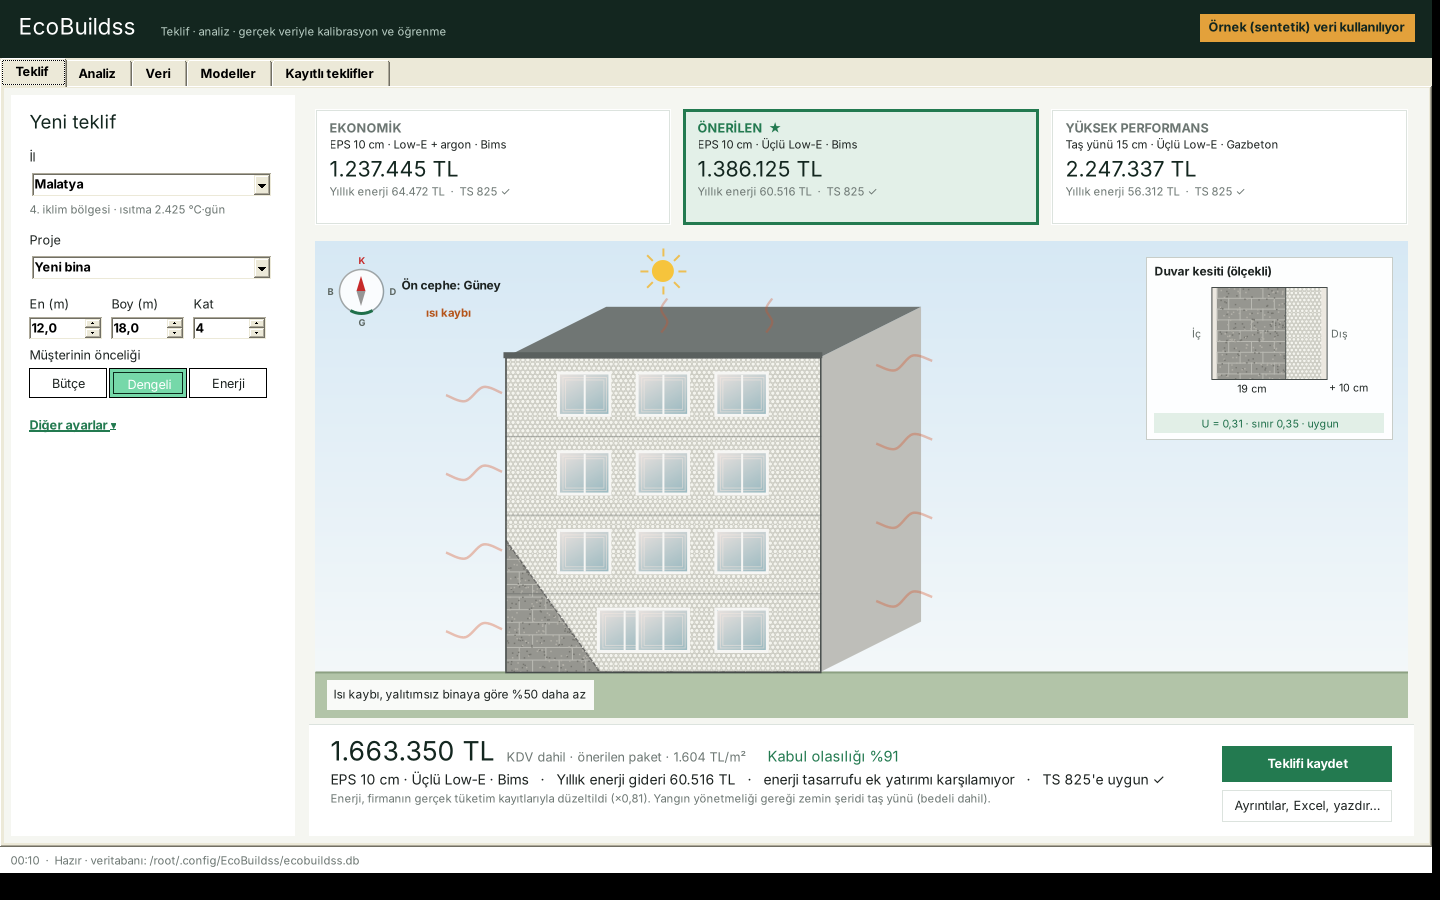
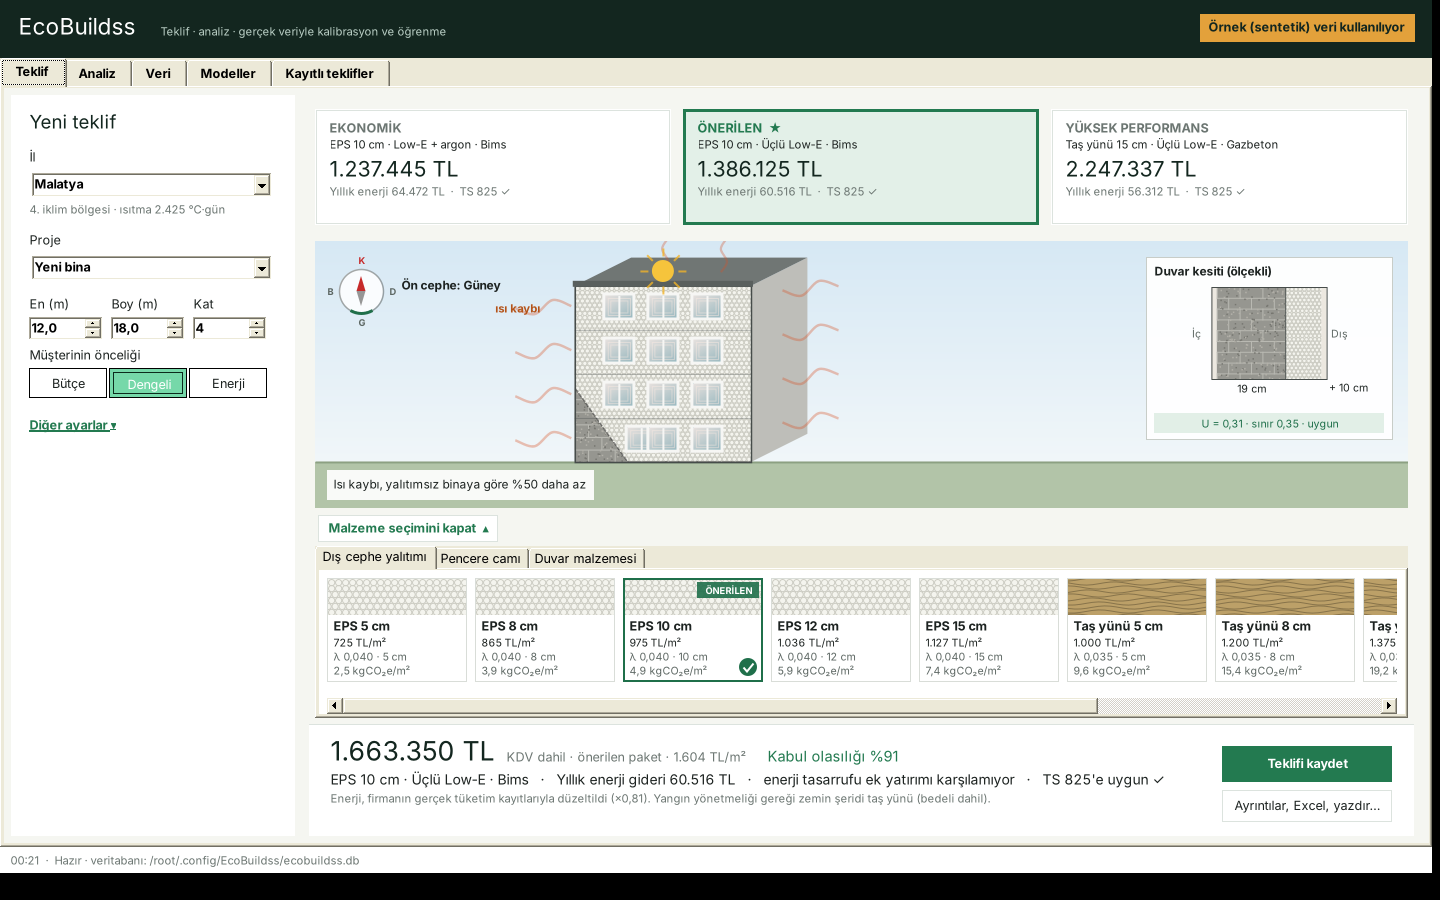
Malzemeleri özelleştir bölümü geri getirildi

Changed region(s): [[0.2188, 0.28, 1.0, 0.8089]]

diff --git a/src/EcoBuildss.App/Sekmeler/TeklifSekmesi.cs b/src/EcoBuildss.App/Sekmeler/TeklifSekmesi.cs
@@ -41,6 +41,11 @@ namespace EcoBuildss.UI
         // ---- sonuçlar ----
         readonly List<PaketKarti> paketKartlari = new();
         readonly BinaPanel bina = new() { Dock = DockStyle.Fill };
+        // Malzemeleri özelleştir: mantolama, cam ve duvar kartları (mühendis paketi tek tek değiştirebilir)
+        readonly TabControl kartAlani = new() { Dock = DockStyle.Bottom, Height = 172, Visible = false, Font = Ui.Yazi };
+        readonly Button btnOzellestir = new() { Text = "Malzemeleri özelleştir  ▾", AutoSize = true, FlatStyle = FlatStyle.Flat, ForeColor = Ui.Yesil, BackColor = Color.White, Cursor = Cursors.Hand, Font = Ui.Kalin };
+        readonly List<MalzemeKarti> malzemeKartlari = new();
+        TabPage? duvarSayfasi;
         readonly Label ozTutar = new() { AutoSize = true, Font = new Font("Segoe UI Semibold", 20f), ForeColor = Ui.Koyu },
             ozAlt = new() { AutoSize = true, Font = Ui.Yazi, ForeColor = Ui.Soluk }, ozSatir = new() { AutoSize = true, Font = new Font("Segoe UI", 10.5f), ForeColor = Ui.Metin },
             ozKabul = new() { AutoSize = true, Font = new Font("Segoe UI Semibold", 11f) }, ozNot = new() { AutoSize = true, Font = Ui.Kucuk, ForeColor = Ui.Soluk };
@@ -109,7 +114,26 @@ namespace EcoBuildss.UI
                 paketKartlari.Add(k); kartlar.Controls.Add(k, i, 0);
             }
             var binaKart = new Panel { Dock = DockStyle.Fill, Padding = new Padding(6) };
-            binaKart.Controls.Add(bina);
+            var ozellestirSatiri = new FlowLayoutPanel { Dock = DockStyle.Bottom, Height = 38, Padding = new Padding(0, 4, 0, 0) };
+            btnOzellestir.FlatAppearance.BorderColor = Ui.Kenar;
+            btnOzellestir.Click += (_, __) => { kartAlani.Visible = !kartAlani.Visible; btnOzellestir.Text = kartAlani.Visible ? "Malzeme seçimini kapat  ▴" : "Malzemeleri özelleştir  ▾"; };
+            ozellestirSatiri.Controls.Add(btnOzellestir);
+            foreach (var (ad, tur) in new[] { ("Dış cephe yalıtımı", 'Y'), ("Pencere camı", 'P'), ("Duvar malzemesi", 'D') })
+            {
+                var sira = new FlowLayoutPanel { Dock = DockStyle.Fill, WrapContents = false, AutoScroll = true, BackColor = Color.White };
+                // Kartlar aileye ve kalınlığa göre sıralı (EPS 5, 8, 10 … Taş yünü 5, 8, 10 …)
+                foreach (var m in d.V.Malzemeler.Where(m => m.Tur == tur).OrderBy(m => m.Aile).ThenBy(m => m.Kalinlik))
+                {
+                    var kart = new MalzemeKarti(m);
+                    kart.Secildi += (_, __) => MalzemeSec(m);
+                    new ToolTip().SetToolTip(kart, $"{m.Ad}\n{m.FiyatHesabi}\nFiyat kaynağı: {m.FiyatKaynagi} ({m.FiyatTarihi})");
+                    malzemeKartlari.Add(kart); sira.Controls.Add(kart);
+                }
+                var tp = new TabPage(ad) { BackColor = Color.White, Padding = new Padding(8, 8, 8, 0) };
+                tp.Controls.Add(sira); kartAlani.TabPages.Add(tp);
+                if (tur == 'D') duvarSayfasi = tp;
+            }
+            binaKart.Controls.Add(bina); binaKart.Controls.Add(ozellestirSatiri); binaKart.Controls.Add(kartAlani);
 
             var ozet = new Panel { Dock = DockStyle.Bottom, Height = 112, BackColor = Color.White, Padding = new Padding(18, 10, 14, 8) };
             ozet.Paint += (_, e) => { using var p = new Pen(Ui.Kenar); e.Graphics.DrawLine(p, 0, 0, ozet.Width, 0); };
@@ -216,6 +240,21 @@ namespace EcoBuildss.UI
             if (p == null || SonSonuc == null) return;
             secili = p;
             foreach (var k in paketKartlari) { k.Secili = k.Paket?.S.Kod == p.S.Kod; k.Invalidate(); }
+            var oneri = SonSonuc.Siralama[0];
+            foreach (var mk in malzemeKartlari)
+            {
+                string id = mk.Malzeme.Id;
+                mk.Secili = id == p.S.Yalitim.Id || id == p.S.Cam.Id || (!SonSonuc.Mevcut && id == p.S.Duvar.Id);
+                mk.Onerilen = id == oneri.Yalitim.Id || id == oneri.Cam.Id || (!SonSonuc.Mevcut && id == oneri.Duvar.Id);
+                // Yangın yönetmeliği nedeniyle bu binada kullanılamayan yalıtım soluk görünür
+                mk.Enabled = mk.Malzeme.Tur != 'Y' || SonSonuc.Tum.Any(x => x.Yalitim.Id == id);
+            }
+            if (duvarSayfasi != null)
+            {
+                bool gerek = !SonSonuc.Mevcut;
+                if (gerek && !kartAlani.TabPages.Contains(duvarSayfasi)) kartAlani.TabPages.Add(duvarSayfasi);
+                else if (!gerek && kartAlani.TabPages.Contains(duvarSayfasi)) kartAlani.TabPages.Remove(duvarSayfasi);
+            }
             var r = SonSonuc; var s = p.S;
             // Bina çizimi ve ölçekli duvar kesiti
             bina.Form = SonGirdi!.Bina; bina.CamOrani = SonGirdi.CamOrani; bina.KatYuksekligi = (double)katH.Value;
@@ -233,6 +272,18 @@ namespace EcoBuildss.UI
             ozKabul.ForeColor = (p.KabulOlasiligi ?? 1) >= 0.5 ? Ui.Yesil : Ui.Kirmizi;
             ozNot.Text = (r.Kalibrasyon != 1 ? $"Enerji, firmanın gerçek tüketim kayıtlarıyla düzeltildi (×{Ui.Sayi(r.Kalibrasyon, "0.00")}). " : "")
                        + (s.YanginEkMaliyet > 0 ? "Yangın yönetmeliği gereği zemin şeridi taş yünü (bedeli dahil)." : "");
+        }
+
+        /// <summary>Mühendis bir malzeme kartına tıklayınca seçili paketin yalnız o bileşeni değişir; teklif anında yeniden hesaplanır.</summary>
+        void MalzemeSec(Malzeme m)
+        {
+            if (secili == null || SonSonuc == null) return;
+            var s = secili.S;
+            string y = m.Tur == 'Y' ? m.Id : s.Yalitim.Id, c = m.Tur == 'P' ? m.Id : s.Cam.Id, du = m.Tur == 'D' ? m.Id : s.Duvar.Id;
+            var yeni = SonSonuc.Tum.FirstOrDefault(x => x.Yalitim.Id == y && x.Cam.Id == c && x.Duvar.Id == du);
+            if (yeni == null) { d.Bildir($"{m.KisaAd} bu binada kullanılamıyor (yangın yönetmeliği ya da doğrama için TS 825 değeri yok)."); return; }
+            Sec(paketler.FirstOrDefault(p => p.S.Kod == yeni.Kod) ?? PaketHesapla("Özel", yeni));
+            if (!yeni.Ts825Uygun) d.Bildir($"Dikkat: {TeklifRaporu.PaketAdi(yeni)} TS 825 U sınırını sağlamıyor.");
         }
 
         // ---------------- ayrıntılar penceresi ----------------

diff --git a/src/EcoBuildss.App/Kontroller/MalzemeKarti.cs b/src/EcoBuildss.App/Kontroller/MalzemeKarti.cs
@@ -1,0 +1,90 @@
+using System.Drawing;
+using System.Drawing.Drawing2D;
+using System.Windows.Forms;
+using EcoBuildss.Core;
+
+namespace EcoBuildss.UI
+{
+    /// <summary>Tıklanabilir malzeme kartı: doku örneği, ad, fiyat, teknik değer, karbon.</summary>
+    public sealed class MalzemeKarti : Control
+    {
+        static readonly Color Yesil = Color.FromArgb(31, 111, 74);
+        public Malzeme Malzeme { get; }
+        bool secili, onerilen, uzerinde;
+
+        public event EventHandler? Secildi;
+
+        public bool Secili { get => secili; set { secili = value; Invalidate(); } }
+        public bool Onerilen { get => onerilen; set { onerilen = value; Invalidate(); } }
+
+        public MalzemeKarti(Malzeme m)
+        {
+            Malzeme = m;
+            Size = new Size(140, 104);
+            Margin = new Padding(0, 0, 8, 8);
+            Cursor = Cursors.Hand;
+            TabStop = true;
+            SetStyle(ControlStyles.AllPaintingInWmPaint | ControlStyles.OptimizedDoubleBuffer | ControlStyles.ResizeRedraw | ControlStyles.UserPaint | ControlStyles.Selectable, true);
+            BackColor = Color.White;
+        }
+
+        protected override void OnMouseEnter(EventArgs e) { uzerinde = true; Invalidate(); base.OnMouseEnter(e); }
+        protected override void OnMouseLeave(EventArgs e) { uzerinde = false; Invalidate(); base.OnMouseLeave(e); }
+        protected override void OnClick(EventArgs e) { Focus(); Secildi?.Invoke(this, EventArgs.Empty); base.OnClick(e); }
+        protected override void OnKeyDown(KeyEventArgs e)
+        {
+            if (e.KeyCode is Keys.Enter or Keys.Space) { Secildi?.Invoke(this, EventArgs.Empty); e.Handled = true; }
+            base.OnKeyDown(e);
+        }
+        protected override void OnGotFocus(EventArgs e) { Invalidate(); base.OnGotFocus(e); }
+        protected override void OnLostFocus(EventArgs e) { Invalidate(); base.OnLostFocus(e); }
+
+        protected override void OnPaint(PaintEventArgs e)
+        {
+            var g = e.Graphics;
+            g.SmoothingMode = SmoothingMode.AntiAlias;
+            g.TextRenderingHint = System.Drawing.Text.TextRenderingHint.ClearTypeGridFit;
+            var tr = Ortak.TR;
+            var m = Malzeme;
+
+            var ornek = new RectangleF(1, 1, Width - 2, 36);
+            Doku.Ciz(g, ornek, m.Id);
+
+            using var baslik = new Font("Segoe UI", 9.5f, FontStyle.Bold);
+            using var kucuk = new Font("Segoe UI", 8f);
+            using var gri = new SolidBrush(Color.FromArgb(93, 103, 99));
+            using var siyah = new SolidBrush(Color.FromArgb(29, 35, 33));
+            g.DrawString(m.KisaAd, baslik, siyah, 6, 39);
+            g.DrawString(m.FiyatM2.ToString("N0", tr) + " TL/m²", kucuk, siyah, 6, 57);
+            string teknik = m.Tur == 'P' ? $"cam Ug {m.U.ToString("0.00", tr)}" : $"λ {m.Lambda.ToString("0.000", tr)} · {(m.Kalinlik * 100).ToString("0.#", tr)} cm";
+            g.DrawString(teknik, kucuk, gri, 6, 71);
+            g.DrawString(m.KarbonM2.ToString("0.0", tr) + " kgCO₂e/m²", kucuk, gri, 6, 85);
+
+            if (onerilen)
+            {
+                var etiket = new RectangleF(Width - 66, 4, 62, 16);
+                using var eb = new SolidBrush(Color.FromArgb(230, 31, 111, 74));
+                g.FillRectangle(eb, etiket);
+                using var ef = new Font("Segoe UI", 7f, FontStyle.Bold);
+                Doku.TextOrta(g, "ÖNERİLEN", ef, Color.White, etiket);
+            }
+
+            var cerceve = new Rectangle(0, 0, Width - 1, Height - 1);
+            if (secili)
+            {
+                using var p = new Pen(Yesil, 3f) { Alignment = PenAlignment.Inset };
+                g.DrawRectangle(p, cerceve);
+                using var ib = new SolidBrush(Yesil);
+                g.FillEllipse(ib, Width - 24, Height - 24, 18, 18); // onay işareti
+                using var tik = new Pen(Color.White, 2f);
+                g.DrawLines(tik, new[] { new PointF(Width - 20, Height - 15), new PointF(Width - 16.5f, Height - 11), new PointF(Width - 10, Height - 19) });
+            }
+            else
+            {
+                using var p = new Pen(uzerinde ? Color.FromArgb(120, 160, 140) : Color.FromArgb(217, 221, 216), uzerinde ? 2f : 1f);
+                g.DrawRectangle(p, cerceve);
+            }
+            if (Focused) ControlPaint.DrawFocusRectangle(g, new Rectangle(3, 3, Width - 7, Height - 7));
+        }
+    }
+}

diff --git a/src/EcoBuildss.App/Kontroller/Doku.cs b/src/EcoBuildss.App/Kontroller/Doku.cs
@@ -10,10 +10,10 @@ namespace EcoBuildss.UI
         /// <summary>Doku anahtarı: Y1 = EPS, Y2 = XPS, Y3 = taş yünü, Y4 = cam yünü (malzemeler.csv kimliklerinden).</summary>
         static string DokuId(string id) => id switch
         {
-            "Y1" or "Y2" or "Y3" => "Y1",   // EPS mantolama 5 / 8 / 10 cm
-            "Y4" or "Y5" or "Y6" => "Y3",   // taş yünü mantolama 5 / 8 / 10 cm
-            "C1" => "Y4",                   // cam yünü çatı şiltesi
-            "Z1" => "Y2",                   // XPS zemin levhası
+            "Y1" or "Y2" or "Y3" or "Y7" or "Y8" => "Y1",    // EPS mantolama 5 / 8 / 10 / 12 / 15 cm
+            "Y4" or "Y5" or "Y6" or "Y9" or "Y10" => "Y3",   // taş yünü mantolama 5 / 8 / 10 / 12 / 15 cm
+            "C1" or "C2" => "Y4",                            // cam yünü çatı şiltesi
+            "Z1" or "Z2" => "Y2",                            // XPS zemin levhası
             _ => id
         };
 
